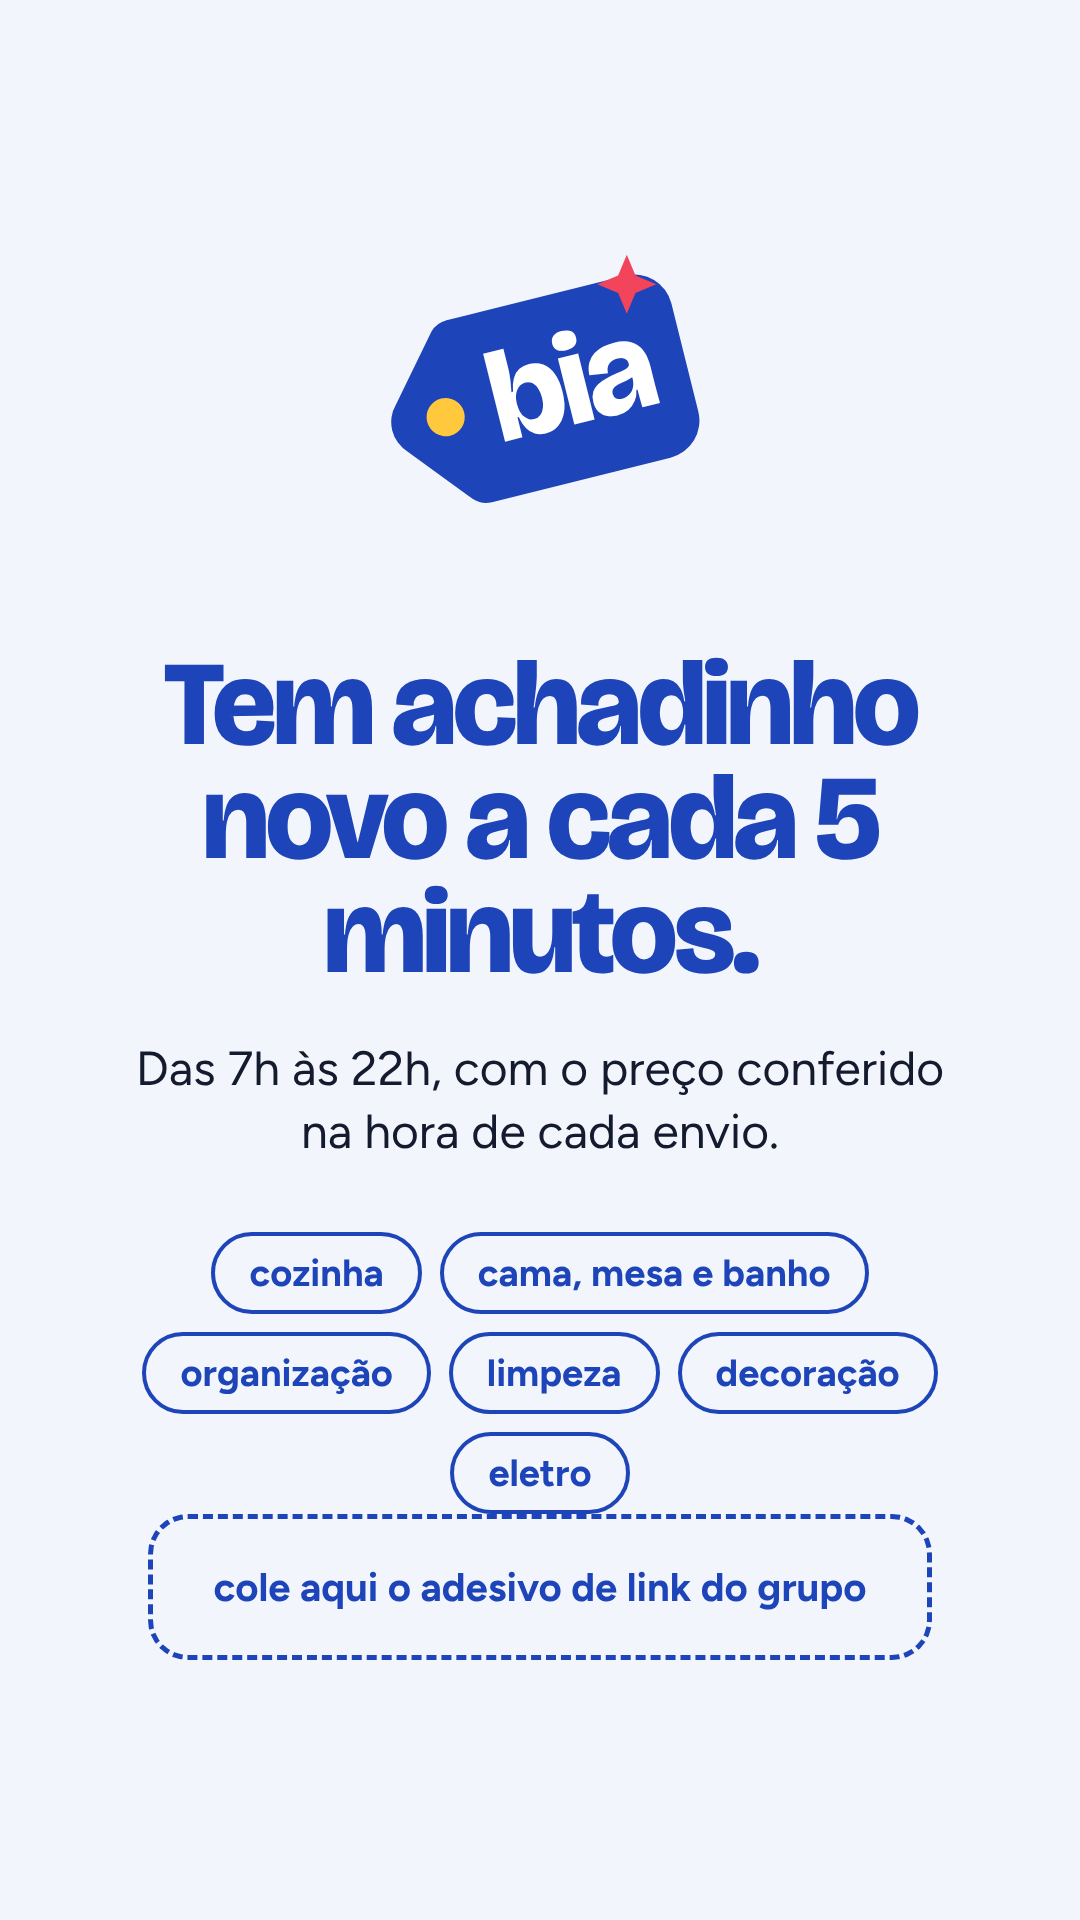
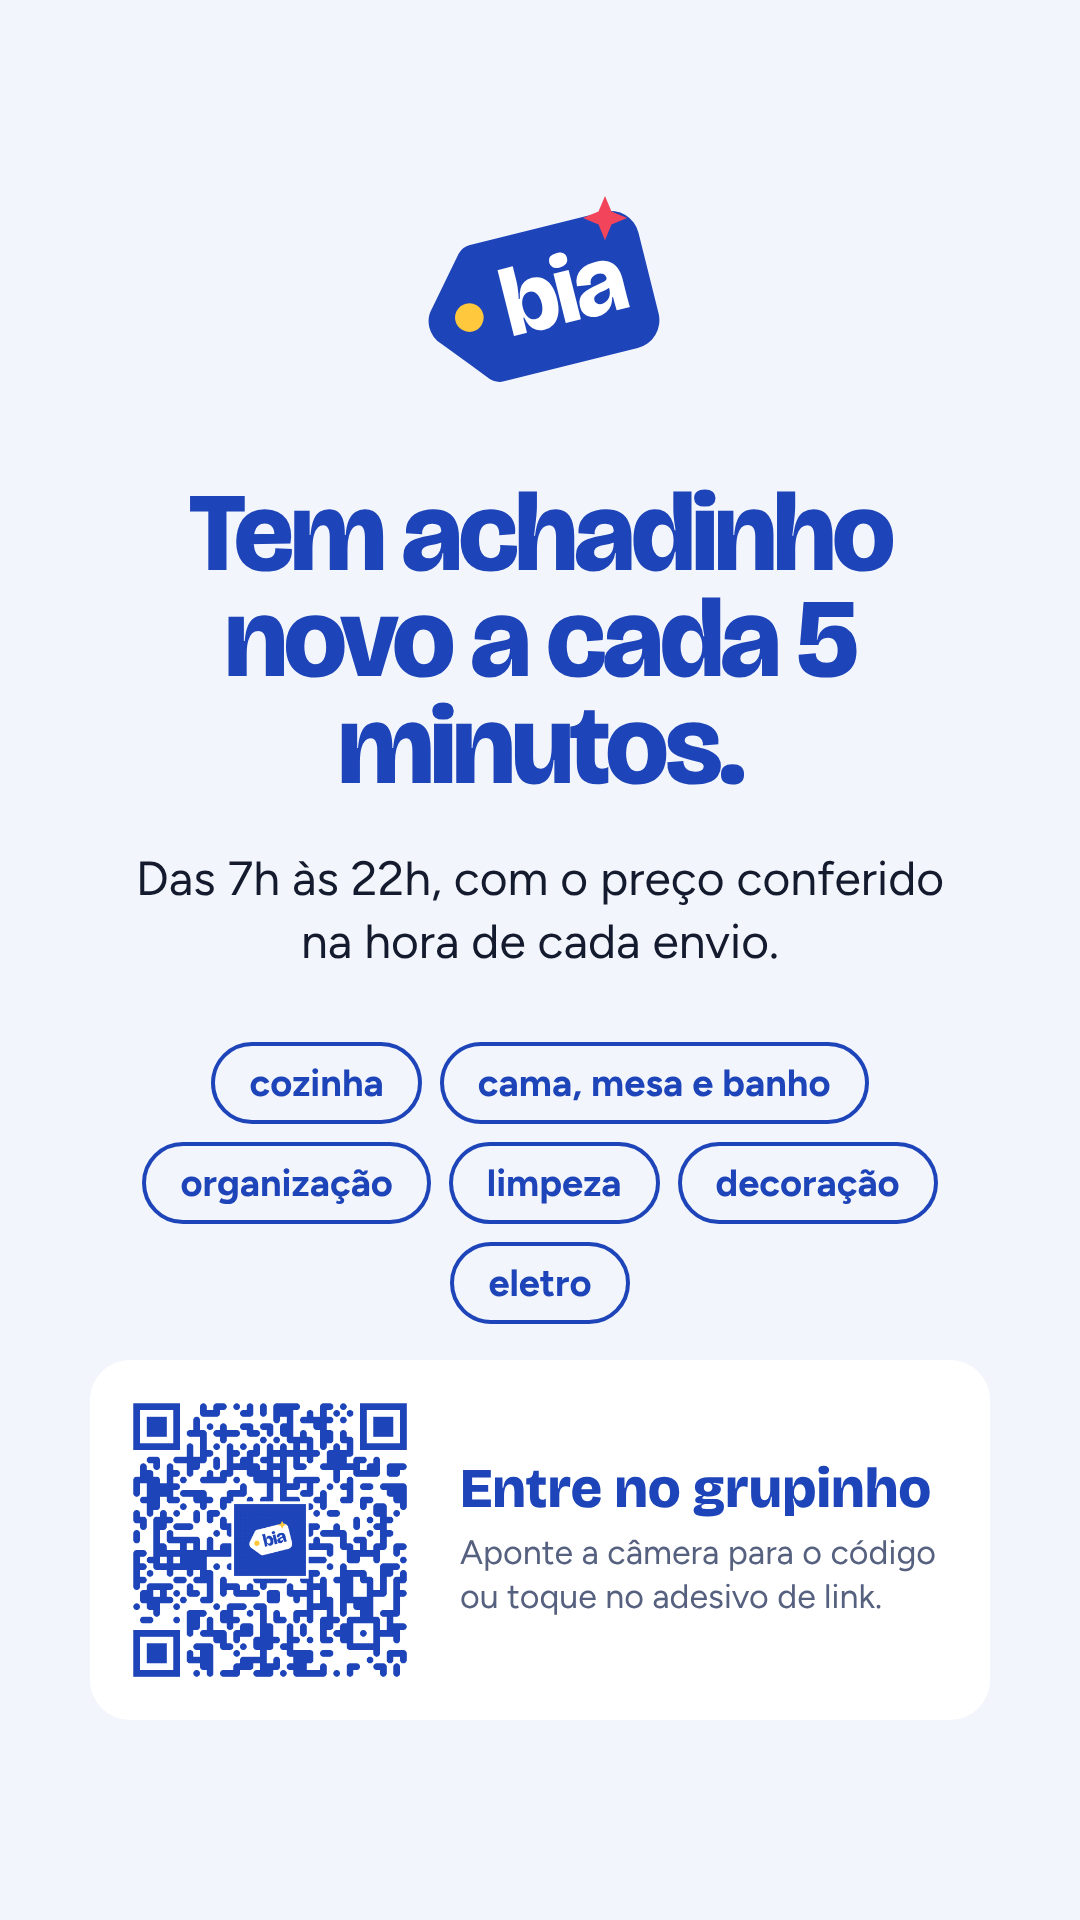
Adicionar o QR Code do grupo e colocar no story de convite
Claude-Session: https://claude.ai/code/session_012gNnKsGtrYHzGmwP2FZQ4U

Changed region(s): [[0.1222, 0.0938, 0.8861, 0.875], [0.8556, 0.8125, 0.8861, 0.8438]]

diff --git a/marca/pecas.html b/marca/pecas.html
@@ -45,13 +45,16 @@ body{background:#ccd3e3;font-family:var(--texto);display:flex;flex-wrap:wrap;gap
 #post-convite .cta span{font-size:34px;font-weight:600;color:#DCE4FA}
 
 /* 4. story convite 1080x1920 */
-#story-convite{width:1080px;height:1920px;background:var(--louca);color:var(--grafite);display:flex;flex-direction:column;align-items:center;text-align:center;padding:220px 90px 260px}
-#story-convite .selo{width:360px;height:360px}
-#story-convite h1{font-family:var(--display);font-weight:800;font-size:120px;line-height:.95;letter-spacing:-.035em;margin-top:80px;color:var(--agata)}
+#story-convite{width:1080px;height:1920px;background:var(--louca);color:var(--grafite);display:flex;flex-direction:column;align-items:center;text-align:center;padding:170px 90px 200px}
+#story-convite .selo{width:260px;height:260px}
+#story-convite h1{font-family:var(--display);font-weight:800;font-size:112px;line-height:.95;letter-spacing:-.035em;margin-top:50px;color:var(--agata)}
 #story-convite p{font-size:48px;line-height:1.3;margin-top:48px;max-width:820px}
 #story-convite .lista{display:flex;flex-wrap:wrap;justify-content:center;gap:18px;margin-top:70px;max-width:900px}
 #story-convite .lista span{border:4px solid var(--agata);color:var(--agata);border-radius:999px;padding:14px 34px;font-size:38px;font-weight:700}
-#story-convite .area-link{margin-top:auto;border:5px dashed var(--agata);border-radius:40px;padding:44px 60px;font-size:40px;font-weight:700;color:var(--agata)}
+#story-convite .qr{margin-top:auto;display:flex;align-items:center;gap:40px;background:var(--branco);border-radius:40px;padding:30px 44px 30px 30px;text-align:left}
+#story-convite .qr img{width:300px;height:300px;display:block}
+#story-convite .qr b{display:block;font-family:var(--display);font-weight:800;font-size:56px;line-height:1;color:var(--agata)}
+#story-convite .qr span{display:block;font-size:34px;line-height:1.3;margin-top:14px;color:#56617F}
 
 /* 5. card de oferta 1080x1080 (exemplo) */
 #card-oferta{width:1080px;height:1080px;background:var(--louca);padding:56px;display:flex;flex-direction:column;gap:36px}
@@ -114,7 +117,7 @@ body{background:#ccd3e3;font-family:var(--texto);display:flex;flex-wrap:wrap;gap
   <h1>Tem achadinho novo a cada 5 minutos.</h1>
   <p>Das 7h às 22h, com o preço conferido na hora de cada envio.</p>
   <div class="lista"><span>cozinha</span><span>cama, mesa e banho</span><span>organização</span><span>limpeza</span><span>decoração</span><span>eletro</span></div>
-  <div class="area-link">cole aqui o adesivo de link do grupo</div>
+  <div class="qr"><img src="png/qr-code-grupo.png" alt=""><div><b>Entre no grupinho</b><span>Aponte a câmera para o código ou toque no adesivo de link.</span></div></div>
 </div>
 
 <div class="peca" id="card-oferta" style="--c-tag:#1D44B8;--c-txt:#FFFFFF;--c-furo:#FFC83D;--c-brilho:#F2445A">

diff --git a/marca/gerar_qr.py b/marca/gerar_qr.py
@@ -1,0 +1,37 @@
+"""Gera marca/png/qr-code-grupo.png com o link de convite do grupo.
+
+Uso: pip install qrcode pillow && python marca/gerar_qr.py [link]
+Rode de novo se o link do grupo for redefinido no WhatsApp, e depois
+`node marca/exportar.js` para atualizar o story de convite.
+"""
+
+import sys
+from pathlib import Path
+
+import qrcode
+from PIL import Image
+from qrcode.image.styledpil import StyledPilImage
+from qrcode.image.styles.colormasks import SolidFillColorMask
+from qrcode.image.styles.moduledrawers.pil import RoundedModuleDrawer
+
+LINK = sys.argv[1] if len(sys.argv) > 1 else "https://chat.whatsapp.com/JRY7yIMbOv609NylCljfsz"
+PNG = Path(__file__).parent / "png"
+
+q = qrcode.QRCode(error_correction=qrcode.constants.ERROR_CORRECT_H, box_size=30, border=2)
+q.add_data(LINK)
+q.make(fit=True)
+img = q.make_image(
+    image_factory=StyledPilImage,
+    module_drawer=RoundedModuleDrawer(),
+    color_mask=SolidFillColorMask(back_color=(255, 255, 255), front_color=(0x1D, 0x44, 0xB8)),
+).convert("RGB")
+
+# logo no centro: a correção de erro "H" aguenta cobrir até 30% do código
+lado = img.size[0]
+s = int(lado * 0.24)
+logo = Image.open(PNG / "foto-grupo.png").convert("RGB").resize((s, s), Image.LANCZOS)
+moldura = Image.new("RGB", (s + 24, s + 24), "white")
+moldura.paste(logo, (12, 12))
+img.paste(moldura, ((lado - s - 24) // 2, (lado - s - 24) // 2))
+img.resize((1080, 1080), Image.LANCZOS).save(PNG / "qr-code-grupo.png")
+print("ok", PNG / "qr-code-grupo.png")
